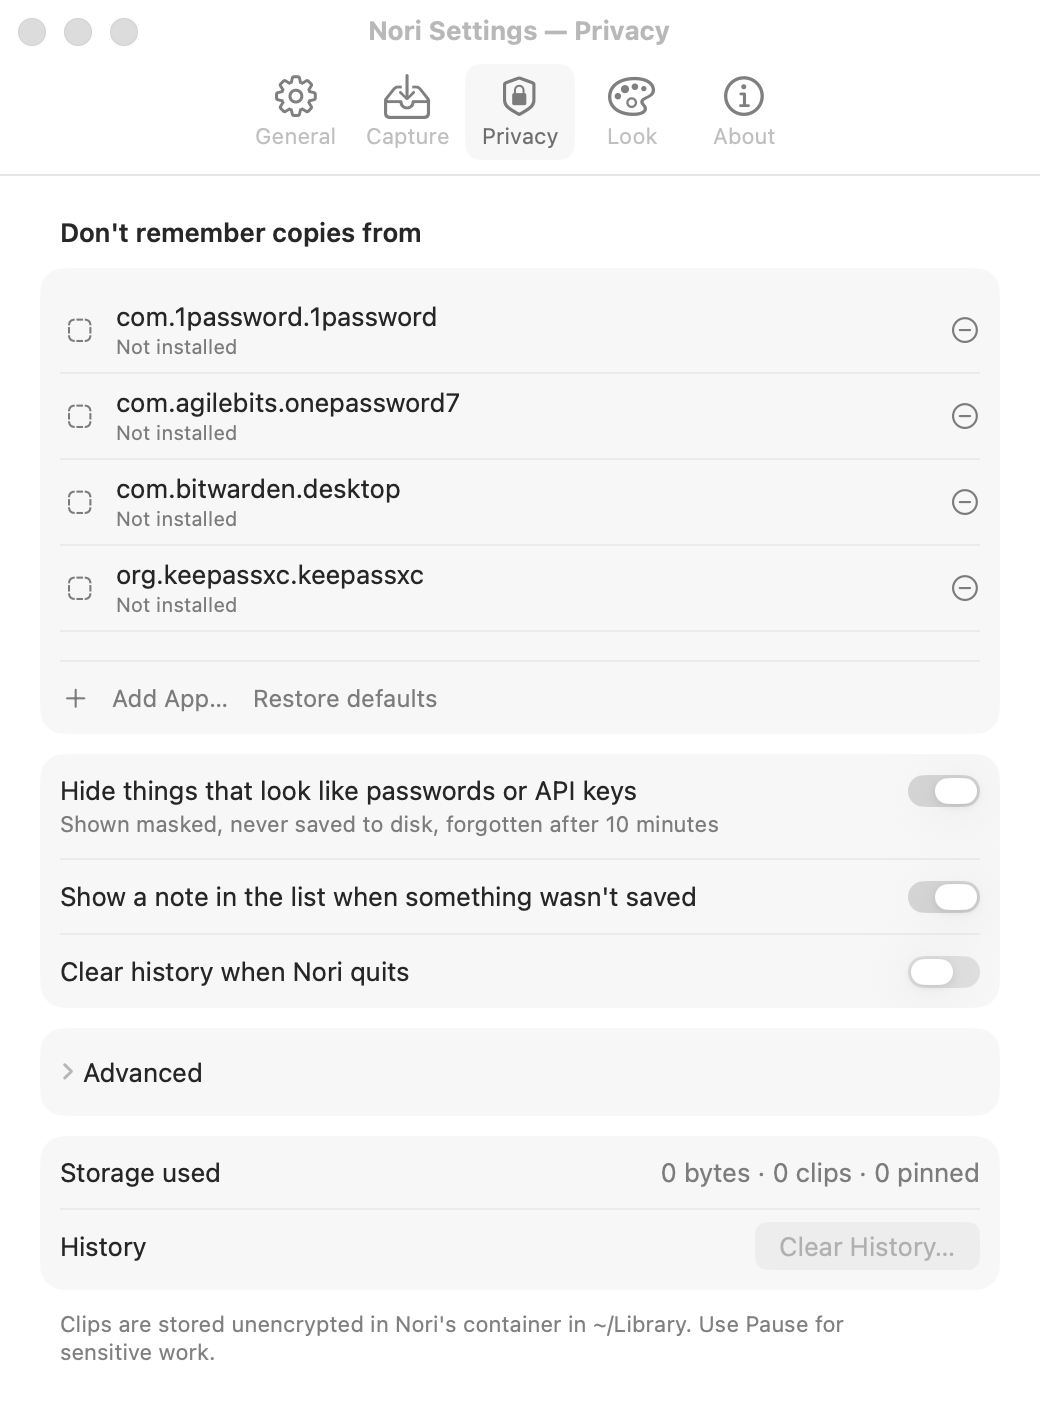
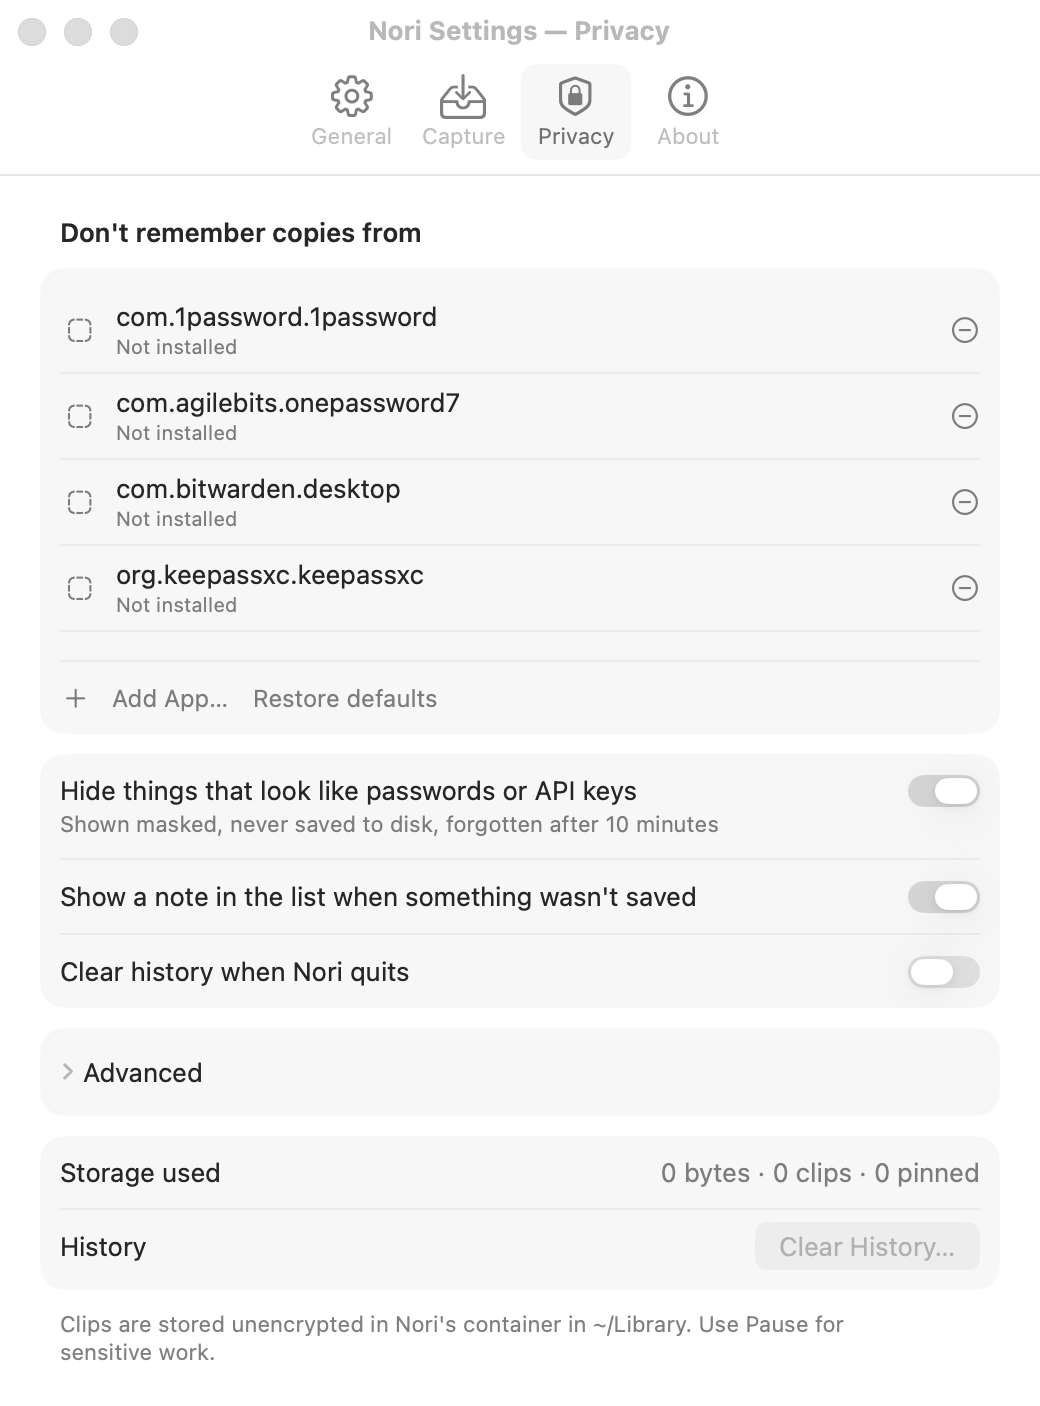
Shorter cycle-mode label; refreshed screenshots

Changed region(s): [[0.2462, 0.0306, 0.7385, 0.1223]]

diff --git a/Nori/Settings/GeneralPane.swift b/Nori/Settings/GeneralPane.swift
@@ -14,7 +14,10 @@ struct GeneralPane: View {
         Form {
             Section {
                 KeyboardShortcuts.Recorder("Open Nori", name: .togglePanel)
-                Toggle("Hold the modifiers and tap the key again to step through clips", isOn: $settings.cycleModeEnabled)
+                Toggle(isOn: $settings.cycleModeEnabled) {
+                    Text("Step through clips with the shortcut")
+                    Text("Keep the modifiers held and tap the key again; let go to paste")
+                }
             }
             Section {
                 loginItemRow
